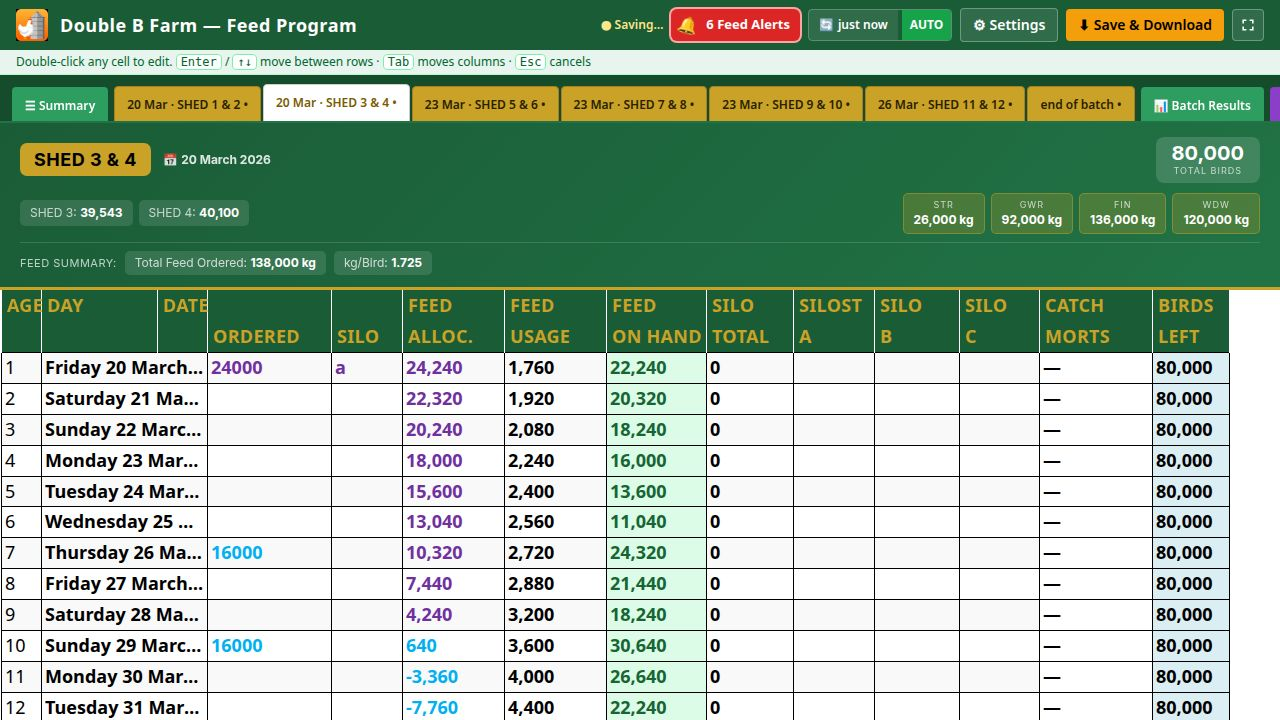
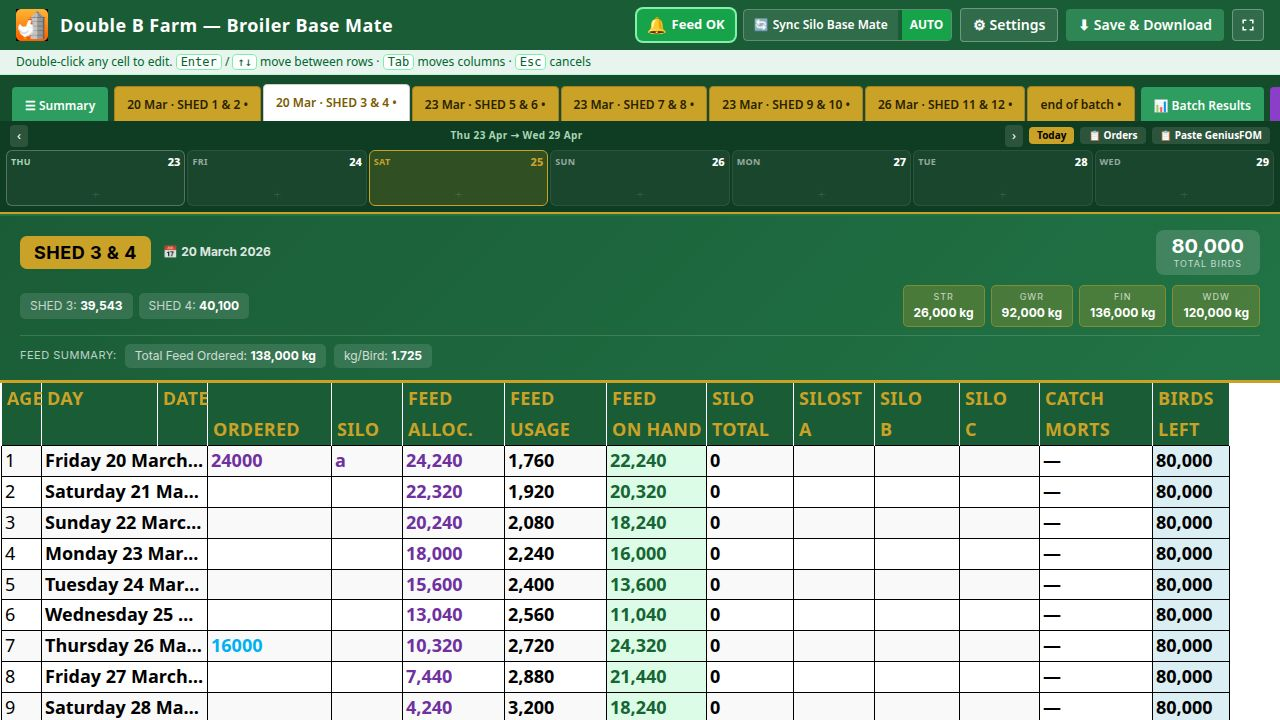
Update application names to reflect rebranding efforts
Renames "Feed Program" to "Broiler Base Mate" and "Farm Buddy" to "Silo Base Mate" across all relevant files, including HTML titles, manifest configurations, component text, and marketing pages.

Replit-Commit-Author: Agent
Replit-Commit-Session-Id: d6876d1c-4795-4b4c-a7d8-f22992d551d5
Replit-Commit-Checkpoint-Type: full_checkpoint
Replit-Commit-Event-Id: 4b5aca08-ce0c-4b1d-9dc8-0aac9070595b
Replit-Commit-Screenshot-Url: https://storage.googleapis.com/screenshot-production-us-central1/9fb187d0-5a71-40d4-a291-96ab5e107c04/d6876d1c-4795-4b4c-a7d8-f22992d551d5/ZOyhsyG
Replit-Helium-Checkpoint-Created: true

diff --git a/artifacts/feed-program/src/App.tsx b/artifacts/feed-program/src/App.tsx
@@ -2358,7 +2358,7 @@ function BatchResultsView({ sheets, edits, farmConfig, shedPlacement, onEobCatch
       .catch(() => setLoadState("error"));
   }, []);
 
-  // Sync batch number from Farm Buddy (and vice versa) via storage events
+  // Sync batch number from Silo Base Mate (and vice versa) via storage events
   useEffect(() => {
     const handler = (e: StorageEvent) => {
       if (e.key === "silo-batch-num") {
@@ -5877,7 +5877,7 @@ export default function App() {
       const data = await res.json();
       setSiloSyncReadings(data.sheds ?? []);
     } catch {
-      setSiloSyncError("Could not reach Farm Buddy. Make sure you're connected.");
+      setSiloSyncError("Could not reach Silo Base Mate. Make sure you're connected.");
     } finally {
       setSiloSyncLoading(false);
     }
@@ -6540,7 +6540,7 @@ export default function App() {
     <div className="flex items-center justify-center h-screen bg-green-50">
       <div className="text-center">
         <div className="w-10 h-10 border-4 border-green-700 border-t-transparent rounded-full animate-spin mx-auto mb-3" />
-        <p className="text-green-800 font-semibold">Loading Feed Program…</p>
+        <p className="text-green-800 font-semibold">Loading Broiler Base Mate…</p>
       </div>
     </div>
   );
@@ -6587,8 +6587,8 @@ export default function App() {
       `}</style>
       {/* Header — paddingTop accounts for iPhone notch */}
       <div className="text-white px-4 py-2 flex items-center gap-3 shadow-md shrink-0" style={{ background: "var(--pm-primary)", paddingTop: "calc(env(safe-area-inset-top, 0px) + 8px)" }}>
-        <img src={`${import.meta.env.BASE_URL}logo.png`} alt="Farm Buddy" style={{ height: 32, width: "auto", objectFit: "contain", flexShrink: 0 }} />
-        <span className="text-lg font-bold tracking-wide">{farmConfig.farmName ?? "Double B Farm"} — {(farmConfig.farmType ?? "broiler") === "breeder" ? "Breeder Program" : "Feed Program"}</span>
+        <img src={`${import.meta.env.BASE_URL}logo.png`} alt="Silo Base Mate" style={{ height: 32, width: "auto", objectFit: "contain", flexShrink: 0 }} />
+        <span className="text-lg font-bold tracking-wide">{farmConfig.farmName ?? "Double B Farm"} — {(farmConfig.farmType ?? "broiler") === "breeder" ? "Breeder Program" : "Broiler Base Mate"}</span>
         <div className="ml-auto flex items-center gap-2">
           {autoSaveFlash
             ? <span style={{ color: "#86efac", fontSize: 12, fontWeight: 600 }}>✓ Auto-saved</span>
@@ -6626,7 +6626,7 @@ export default function App() {
               🔄
               {lastAutoSyncTs
                 ? <span>{(() => { const d = Math.floor((Date.now() - lastAutoSyncTs) / 1000); return d < 60 ? "just now" : d < 3600 ? `${Math.floor(d/60)}m ago` : `${Math.floor(d/3600)}h ago`; })()}</span>
-                : <span>Sync Farm Buddy</span>
+                : <span>Sync Silo Base Mate</span>
               }
             </button>
             <button
@@ -6957,7 +6957,7 @@ export default function App() {
             {/* Header */}
             <div style={{ background: "var(--pm-primary)", color: "#fff", padding: "14px 20px", display: "flex", alignItems: "center", justifyContent: "space-between" }}>
               <div>
-                <div style={{ fontWeight: 800, fontSize: 16 }}>🔄 Sync from Farm Buddy</div>
+                <div style={{ fontWeight: 800, fontSize: 16 }}>🔄 Sync from Silo Base Mate</div>
                 <div style={{ fontSize: 12, opacity: 0.85, marginTop: 2 }}>{new Date().toLocaleDateString(undefined, { weekday: "long", day: "numeric", month: "long", year: "numeric" })}</div>
               </div>
               <button onClick={() => setShowSiloSync(false)} style={{ background: "none", border: "none", color: "#fff", fontSize: 22, cursor: "pointer", lineHeight: 1 }}>×</button>
@@ -7212,7 +7212,7 @@ export default function App() {
               <div>
                 <div style={{ display: "flex", alignItems: "center", gap: 8, marginBottom: 6 }}>
                   <label style={{ display: "block", fontWeight: 700, fontSize: 13, color: "var(--pm-primary)", textTransform: "uppercase", letterSpacing: 0.5 }}>{t("farmName")}</label>
-                  <span style={{ fontSize: 10, fontWeight: 700, background: "var(--pm-primary-soft)", color: "var(--pm-primary)", borderRadius: 20, padding: "1px 8px", border: "1px solid var(--pm-primary)", letterSpacing: 0.3 }}>Synced with Farm Buddy</span>
+                  <span style={{ fontSize: 10, fontWeight: 700, background: "var(--pm-primary-soft)", color: "var(--pm-primary)", borderRadius: 20, padding: "1px 8px", border: "1px solid var(--pm-primary)", letterSpacing: 0.3 }}>Synced with Silo Base Mate</span>
                 </div>
                 <input
                   value={settingsFarmName}
@@ -7226,7 +7226,7 @@ export default function App() {
               <div>
                 <div style={{ display: "flex", alignItems: "center", gap: 8, marginBottom: 6 }}>
                   <label style={{ display: "block", fontWeight: 700, fontSize: 13, color: "var(--pm-primary)", textTransform: "uppercase", letterSpacing: 0.5 }}>Batch Number</label>
-                  <span style={{ fontSize: 10, fontWeight: 700, background: "var(--pm-primary-soft)", color: "var(--pm-primary)", borderRadius: 20, padding: "1px 8px", border: "1px solid var(--pm-primary)", letterSpacing: 0.3 }}>Synced with Farm Buddy</span>
+                  <span style={{ fontSize: 10, fontWeight: 700, background: "var(--pm-primary-soft)", color: "var(--pm-primary)", borderRadius: 20, padding: "1px 8px", border: "1px solid var(--pm-primary)", letterSpacing: 0.3 }}>Synced with Silo Base Mate</span>
                 </div>
                 <input
                   type="number"
@@ -7243,9 +7243,9 @@ export default function App() {
               <div>
                 <div style={{ display: "flex", alignItems: "center", gap: 8, marginBottom: 6 }}>
                   <label style={{ display: "block", fontWeight: 700, fontSize: 13, color: "var(--pm-primary)", textTransform: "uppercase", letterSpacing: 0.5 }}>Default Silo Unit</label>
-                  <span style={{ fontSize: 10, fontWeight: 700, background: "var(--pm-primary-soft)", color: "var(--pm-primary)", borderRadius: 20, padding: "1px 8px", border: "1px solid var(--pm-primary)", letterSpacing: 0.3 }}>Synced with Farm Buddy</span>
+                  <span style={{ fontSize: 10, fontWeight: 700, background: "var(--pm-primary-soft)", color: "var(--pm-primary)", borderRadius: 20, padding: "1px 8px", border: "1px solid var(--pm-primary)", letterSpacing: 0.3 }}>Synced with Silo Base Mate</span>
                 </div>
-                <p style={{ fontSize: 12, color: "#666", marginBottom: 10 }}>Default unit used when recording silo readings in Farm Buddy.</p>
+                <p style={{ fontSize: 12, color: "#666", marginBottom: 10 }}>Default unit used when recording silo readings in Silo Base Mate.</p>
                 <div style={{ display: "flex", gap: 8 }}>
                   {(["kg", "t"] as const).map(u => (
                     <button
@@ -7322,7 +7322,7 @@ export default function App() {
               <div>
                 <div style={{ display: "flex", alignItems: "center", gap: 8, marginBottom: 10 }}>
                   <label style={{ display: "block", fontWeight: 700, fontSize: 13, color: "var(--pm-primary)", textTransform: "uppercase", letterSpacing: 0.5 }}>{t("activeSheds")}</label>
-                  <span style={{ fontSize: 10, fontWeight: 700, background: "var(--pm-primary-soft)", color: "var(--pm-primary)", borderRadius: 20, padding: "1px 8px", border: "1px solid var(--pm-primary)", letterSpacing: 0.3 }}>Synced with Farm Buddy</span>
+                  <span style={{ fontSize: 10, fontWeight: 700, background: "var(--pm-primary-soft)", color: "var(--pm-primary)", borderRadius: 20, padding: "1px 8px", border: "1px solid var(--pm-primary)", letterSpacing: 0.3 }}>Synced with Silo Base Mate</span>
                 </div>
                 <div style={{ display: "flex", flexDirection: "column", gap: 8 }}>
                   {(() => {
@@ -7451,7 +7451,7 @@ export default function App() {
               <div>
                 <div style={{ display: "flex", alignItems: "center", gap: 8, marginBottom: 10 }}>
                   <label style={{ display: "block", fontWeight: 700, fontSize: 13, color: "var(--pm-primary)", textTransform: "uppercase", letterSpacing: 0.5 }}>{t("themeLabel")}</label>
-                  <span style={{ fontSize: 10, fontWeight: 700, background: "var(--pm-primary-soft)", color: "var(--pm-primary)", borderRadius: 20, padding: "1px 8px", border: "1px solid var(--pm-primary)", letterSpacing: 0.3 }}>Synced with Farm Buddy</span>
+                  <span style={{ fontSize: 10, fontWeight: 700, background: "var(--pm-primary-soft)", color: "var(--pm-primary)", borderRadius: 20, padding: "1px 8px", border: "1px solid var(--pm-primary)", letterSpacing: 0.3 }}>Synced with Silo Base Mate</span>
                 </div>
                 <div style={{ display: "flex", gap: 10, flexWrap: "wrap" }}>
                   {APP_THEMES.map(t => {
@@ -7516,7 +7516,7 @@ export default function App() {
               {/* Send to Phone — QR Code */}
               <div>
                 <label style={{ display: "block", fontWeight: 700, fontSize: 13, color: "var(--pm-primary)", marginBottom: 6, textTransform: "uppercase", letterSpacing: 0.5 }}>Send to Phone</label>
-                <p style={{ fontSize: 12, color: "#666", marginBottom: 12 }}>Scan with your phone camera to open Farm Buddy on your phone.</p>
+                <p style={{ fontSize: 12, color: "#666", marginBottom: 12 }}>Scan with your phone camera to open Silo Base Mate on your phone.</p>
                 <div style={{ display: "flex", flexDirection: "column", alignItems: "center", gap: 12 }}>
                   <div style={{ padding: 10, background: "#fff", borderRadius: 12, boxShadow: "0 1px 6px rgba(0,0,0,0.10)" }}>
                     <QRCodeSVG value={`${window.location.origin}/silo-tracker/`} size={170} level="M" includeMargin={false} />

diff --git a/artifacts/silo-mate-plans/src/App.tsx b/artifacts/silo-mate-plans/src/App.tsx
@@ -1302,7 +1302,7 @@ function CheckoutSuccessModal({ onClose }: { onClose: () => void }) {
           rel="noopener noreferrer"
           style={{ display: "block", background: GREEN, color: "#fff", fontWeight: 800, fontSize: 16, padding: "14px 24px", borderRadius: 10, textDecoration: "none", marginBottom: 12 }}
         >
-          Open Feed Program →
+          Open Broiler Base Mate →
         </a>
         <p style={{ fontSize: 13, color: "#888", marginBottom: 20 }}>
           Bookmark that link — it's your app. A Stripe receipt has been sent to your email.
@@ -1592,7 +1592,7 @@ export default function App() {
           {/* Screenshot cards */}
           <div style={{ display: "flex", flexWrap: "wrap", gap: 32, justifyContent: "center", alignItems: "flex-start" }}>
 
-            {/* Feed Program screenshot */}
+            {/* Broiler Base Mate screenshot */}
             <div style={{ flex: "1 1 520px", maxWidth: 640 }}>
               <div style={{ background: "#fff", borderRadius: 16, boxShadow: "0 4px 6px rgba(0,0,0,0.05), 0 20px 60px rgba(0,0,0,0.12)", overflow: "hidden", border: "1px solid #e5e7eb" }}>
                 {/* Browser chrome bar */}
@@ -1604,12 +1604,12 @@ export default function App() {
                 </div>
                 <img
                   src="/plans/screenshot-feed-program.jpg"
-                  alt="Feed Program spreadsheet showing shed tracking data"
+                  alt="Broiler Base Mate spreadsheet showing shed tracking data"
                   style={{ width: "100%", display: "block" }}
                 />
               </div>
               <div style={{ marginTop: 20, paddingLeft: 4 }}>
-                <div style={{ fontWeight: 800, fontSize: 17, color: "#111827", marginBottom: 6 }}>🖥️ Feed Program — Desktop & Tablet</div>
+                <div style={{ fontWeight: 800, fontSize: 17, color: "#111827", marginBottom: 6 }}>🖥️ Broiler Base Mate — Desktop & Tablet</div>
                 <p style={{ color: "#6b7280", fontSize: 14, lineHeight: 1.6, margin: 0 }}>
                   Your complete feed tracking spreadsheet in the browser. All sheds, all days, with automatic feed-on-hand calculations, silo readings, and end-of-batch reporting — no Excel install required.
                 </p>
@@ -1639,7 +1639,7 @@ export default function App() {
               <div style={{ marginTop: 20, paddingLeft: 4 }}>
                 <div style={{ fontWeight: 800, fontSize: 17, color: "#111827", marginBottom: 6 }}>📱 Farm Buddy — iPhone & Android</div>
                 <p style={{ color: "#6b7280", fontSize: 14, lineHeight: 1.6, margin: 0 }}>
-                  Record silo readings and scan delivery dockets right from the shed — no paper, no re-keying. Syncs instantly to the Feed Program.
+                  Record silo readings and scan delivery dockets right from the shed — no paper, no re-keying. Syncs instantly to the Broiler Base Mate.
                 </p>
                 <div style={{ display: "flex", flexWrap: "wrap", gap: "6px 16px", marginTop: 12 }}>
                   {["QR docket scanning", "Instant sync", "Works offline", "Add to home screen"].map(f => (
@@ -2562,7 +2562,7 @@ export default function App() {
                 }}>▶</div>
                 <div>
                   <div style={{ fontWeight: 800, fontSize: 15, color: "#111827" }}>How Farm Buddy works</div>
-                  <div style={{ fontSize: 12, color: "#6b7280" }}>A walkthrough of the Feed Program & Farm Buddy</div>
+                  <div style={{ fontSize: 12, color: "#6b7280" }}>A walkthrough of the Broiler Base Mate & Farm Buddy</div>
                 </div>
               </div>
               <button

diff --git a/artifacts/silo-mate-plans/src/HowItWorksVideo.tsx b/artifacts/silo-mate-plans/src/HowItWorksVideo.tsx
@@ -14,7 +14,7 @@ const STEPS = [
   },
   {
     id: "upload",
-    label: "Feed Program",
+    label: "Broiler Base Mate",
     icon: "🖥️",
     duration: 4500,
   },
@@ -210,7 +210,7 @@ function FeedProgramScene() {
             </div>
             <img
               src={`${BASE}screenshot-feed-program.jpg`}
-              alt="Feed Program"
+              alt="Broiler Base Mate"
               style={{ width: "100%", display: "block" }}
             />
           </div>
@@ -365,7 +365,7 @@ function SyncScene() {
         animate={{ opacity: phase >= 2 ? 1 : 0 }}
         transition={{ duration: 0.4 }}
       >
-        Your silo readings from the shed appear in the Feed Program on the office desktop the moment you hit Save.
+        Your silo readings from the shed appear in the Broiler Base Mate on the office desktop the moment you hit Save.
       </motion.p>
 
       {/* Animated sync diagram */}
@@ -416,7 +416,7 @@ function SyncScene() {
             🖥️
           </div>
           <div style={{ width: 100, height: 8, background: "#9ca3af", borderRadius: 2, margin: "0 auto 8px" }} />
-          <div style={{ fontSize: 11, fontWeight: 700, color: "#374151" }}>Feed Program</div>
+          <div style={{ fontSize: 11, fontWeight: 700, color: "#374151" }}>Broiler Base Mate</div>
           <div style={{ fontSize: 10, color: "#9ca3af" }}>Office / tablet</div>
         </div>
       </motion.div>

diff --git a/artifacts/silo-tracker/vite.config.ts b/artifacts/silo-tracker/vite.config.ts
@@ -56,9 +56,9 @@ export default defineConfig({
         ],
       },
       manifest: {
-        name: "Farm Buddy",
-        short_name: "Farm Buddy",
-        description: "Farm Buddy™ by Appcovi — silo tracking, feed programs, batch results and QR delivery scanning for Australian poultry producers.",
+        name: "Silo Base Mate",
+        short_name: "Silo Base Mate",
+        description: "Silo Base Mate™ by Appcovi — silo tracking, batch results and QR delivery scanning for Australian poultry producers.",
         start_url: "/",
         scope: "/",
         display: "standalone",
@@ -98,7 +98,7 @@ export default defineConfig({
             src: "/opengraph.jpg",
             sizes: "1200x630",
             type: "image/jpeg",
-            label: "FarmBuddy silo tracker",
+            label: "Silo Base Mate — farm management app",
           },
         ],
         related_applications: [

diff --git a/artifacts/feed-program/vite.config.ts b/artifacts/feed-program/vite.config.ts
@@ -47,9 +47,9 @@ export default defineConfig({
         ],
       },
       manifest: {
-        name: "FarmBuddy Feed Program",
-        short_name: "Feed Program",
-        description: "Feed program management for Australian poultry producers.",
+        name: "Broiler Base Mate",
+        short_name: "Broiler Base Mate",
+        description: "Broiler Base Mate — feed program management for Australian poultry producers.",
         start_url: "/feed-program/",
         scope: "/feed-program/",
         display: "standalone",

diff --git a/artifacts/silo-mate-plans/src/VideoPage.tsx b/artifacts/silo-mate-plans/src/VideoPage.tsx
@@ -106,7 +106,7 @@ function useBackgroundMusic(enabled: boolean) {
 const SCENES = [
   { id: "hook",     label: "The problem",   icon: "📋", dur: 3500 },
   { id: "benefits", label: "Benefits",       icon: "✅", dur: 5000 },
-  { id: "feed",     label: "Feed Program",   icon: "🖥️", dur: 4000 },
+  { id: "feed",     label: "Broiler Base Mate",   icon: "🖥️", dur: 4000 },
   { id: "silo",     label: "Farm Buddy",      icon: "📱", dur: 4000 },
   { id: "install",  label: "Get started",    icon: "🚀", dur: 5000 },
   { id: "closer",   label: "The result",     icon: "🏆", dur: 4000 },
@@ -274,7 +274,7 @@ function FeedScene() {
               {["#fc5c65","#fed330","#26de81"].map(c => <span key={c} style={{ width: 10, height: 10, borderRadius: "50%", background: c, display: "inline-block" }} />)}
               <span style={{ flex: 1, background: "#e5e7eb", borderRadius: 5, height: 18, marginLeft: 6 }} />
             </div>
-            <img src={`${BASE}screenshot-feed-program.jpg`} alt="Feed Program" style={{ width: "100%", display: "block" }} />
+            <img src={`${BASE}screenshot-feed-program.jpg`} alt="Broiler Base Mate" style={{ width: "100%", display: "block" }} />
           </div>
         </motion.div>
       </div>
@@ -317,7 +317,7 @@ function SiloScene() {
           </motion.h2>
           <motion.p style={{ fontSize: "clamp(12px,1.6vw,15px)", color: "rgba(255,255,255,0.72)", lineHeight: 1.65, margin: "0 0 16px", maxWidth: 360 }}
             initial={{ opacity: 0 }} animate={{ opacity: p >= 2 ? 1 : 0 }} transition={{ duration: 0.4 }}>
-            Walk the shed, tap in silo readings or scan the delivery docket QR code. Syncs instantly to the Feed Program.
+            Walk the shed, tap in silo readings or scan the delivery docket QR code. Syncs instantly to the Broiler Base Mate.
           </motion.p>
           {["Works offline in the shed", "QR delivery docket scan", "No app store — add to home screen", "Syncs instantly to desktop"].map((f, i) => (
             <motion.div key={f} style={{ display: "flex", alignItems: "center", gap: 8, fontSize: 13, color: GOLD, fontWeight: 600, marginBottom: 6 }}

diff --git a/artifacts/silo-tracker/src/components/layout.tsx b/artifacts/silo-tracker/src/components/layout.tsx
@@ -60,7 +60,7 @@ function InstallBanner() {
         {isIos ? (
           <span>Add to Home Screen — tap <Share className="inline w-4 h-4 mb-0.5" /> then <strong>"Add to Home Screen"</strong></span>
         ) : (
-          <span>Add Farm Buddy to your home screen for quick access</span>
+          <span>Add Silo Base Mate to your home screen for quick access</span>
         )}
       </div>
       {!isIos && (
@@ -114,9 +114,9 @@ export function Layout({ children }: { children: ReactNode }) {
         <div className="max-w-7xl mx-auto">
         <div className="flex items-center justify-between mb-3">
           <div className="flex items-center gap-3">
-            <img src="/logo.png" alt="Farm Buddy" className="h-10 w-auto object-contain shrink-0" />
+            <img src="/logo.png" alt="Silo Base Mate" className="h-10 w-auto object-contain shrink-0" />
             <div>
-              <div className="font-bold text-base text-foreground leading-tight">{config.farmName || "Farm Buddy"}</div>
+              <div className="font-bold text-base text-foreground leading-tight">{config.farmName || "Silo Base Mate"}</div>
               <div className="text-[11px] text-muted-foreground font-medium tracking-wide uppercase">Feed Management</div>
             </div>
           </div>

diff --git a/artifacts/feed-program/index.html b/artifacts/feed-program/index.html
@@ -3,14 +3,14 @@
   <head>
     <meta charset="UTF-8" />
     <meta name="viewport" content="width=device-width, initial-scale=1.0, maximum-scale=1, viewport-fit=cover" />
-    <title>Feed Program</title>
+    <title>Broiler Base Mate</title>
     <link rel="icon" type="image/png" href="%BASE_URL%logo.png" />
     <link rel="apple-touch-icon" href="%BASE_URL%apple-touch-icon.png" />
     <link rel="manifest" href="%BASE_URL%manifest.json" />
     <meta name="mobile-web-app-capable" content="yes" />
     <meta name="apple-mobile-web-app-capable" content="yes" />
     <meta name="apple-mobile-web-app-status-bar-style" content="black-translucent" />
-    <meta name="apple-mobile-web-app-title" content="Feed Program" />
+    <meta name="apple-mobile-web-app-title" content="Broiler Base Mate" />
     <meta name="theme-color" content="#217346" />
     <link rel="preconnect" href="https://fonts.googleapis.com">
     <link rel="preconnect" href="https://fonts.gstatic.com" crossorigin>

diff --git a/artifacts/silo-tracker/index.html b/artifacts/silo-tracker/index.html
@@ -3,14 +3,14 @@
   <head>
     <meta charset="UTF-8" />
     <meta name="viewport" content="width=device-width, initial-scale=1.0, maximum-scale=1, viewport-fit=cover" />
-    <title>Farm Buddy™</title>
+    <title>Silo Base Mate™</title>
     <link rel="icon" type="image/png" href="/logo.png" />
     <link rel="manifest" href="/manifest.json" />
     <link rel="apple-touch-icon" href="/apple-touch-icon.png" />
     <meta name="mobile-web-app-capable" content="yes" />
     <meta name="apple-mobile-web-app-capable" content="yes" />
     <meta name="apple-mobile-web-app-status-bar-style" content="black-translucent" />
-    <meta name="apple-mobile-web-app-title" content="Farm Buddy" />
+    <meta name="apple-mobile-web-app-title" content="Silo Base Mate" />
     <meta name="theme-color" content="#FF3C00" />
     <link rel="preconnect" href="https://fonts.googleapis.com">
     <link rel="preconnect" href="https://fonts.gstatic.com" crossorigin>

diff --git a/artifacts/farm-buddy-home/src/pages/home.tsx b/artifacts/farm-buddy-home/src/pages/home.tsx
@@ -141,7 +141,7 @@ export default function Home() {
                 <div className="w-12 h-12 rounded-xl bg-accent/10 flex items-center justify-center mb-6">
                   <CalendarDays className="h-6 w-6 text-accent" />
                 </div>
-                <h3 className="text-3xl font-display font-bold mb-4">Feed Program</h3>
+                <h3 className="text-3xl font-display font-bold mb-4">Broiler Base Mate</h3>
                 <p className="text-lg text-muted-foreground mb-6">Throw away the clipboard. Log daily weights, mortalities, and feed types as you walk the shed.</p>
                 <ul className="space-y-4">
                   {[

diff --git a/artifacts/feed-program/src/lib/i18n.ts b/artifacts/feed-program/src/lib/i18n.ts
@@ -69,7 +69,7 @@ const T: Record<string, Row> = {
   showExtraColumns:    { en:"Show extra columns",   zh:"显示额外列", vi:"Hiện cột bổ sung", es:"Mostrar columnas extra", pt:"Mostrar colunas extras", id:"Tampilkan kolom ekstra", ko:"추가 열 표시", tl:"Ipakita ang extra columns", hi:"अतिरिक्त कॉलम दिखाएं", th:"แสดงคอลัมน์พิเศษ" },
   themeLabel:          { en:"Theme",                zh:"主题",       vi:"Giao diện",       es:"Tema",             pt:"Tema",               id:"Tema",             ko:"테마",       tl:"Tema",                 hi:"थीम",           th:"ธีม" },
   language:            { en:"Language",             zh:"语言",       vi:"Ngôn ngữ",        es:"Idioma",           pt:"Idioma",             id:"Bahasa",           ko:"언어",       tl:"Wika",                 hi:"भाषा",          th:"ภาษา" },
-  importFeedProgram:   { en:"Import Feed Program",  zh:"导入饲养计划", vi:"Nhập chương trình TĂ", es:"Importar programa", pt:"Importar programa", id:"Impor Program Pakan", ko:"사료 프로그램 가져오기", tl:"I-import ang Feed Program", hi:"फ़ीड प्रोग्राम आयात करें", th:"นำเข้าโปรแกรมอาหาร" },
+  importFeedProgram:   { en:"Import Broiler Base Mate",  zh:"导入饲养计划", vi:"Nhập chương trình TĂ", es:"Importar programa", pt:"Importar programa", id:"Impor Program Pakan", ko:"사료 프로그램 가져오기", tl:"I-import ang Feed Program", hi:"फ़ीड प्रोग्राम आयात करें", th:"นำเข้าโปรแกรมอาหาร" },
   startNewBatch:       { en:"Start New Batch",      zh:"开始新批次", vi:"Bắt đầu lô mới",  es:"Nuevo lote",       pt:"Novo lote",          id:"Mulai Batch Baru", ko:"새 배치 시작", tl:"Bagong Batch",         hi:"नया बैच शुरू करें", th:"เริ่มแบทช์ใหม่" },
   saveClose:           { en:"Save & Close",         zh:"保存并关闭", vi:"Lưu & Đóng",      es:"Guardar y cerrar", pt:"Salvar e fechar",    id:"Simpan & Tutup",   ko:"저장 & 닫기", tl:"I-save at Isara",      hi:"सेव और बंद करें", th:"บันทึกและปิด" },
   cancel:              { en:"Cancel",               zh:"取消",       vi:"Hủy",             es:"Cancelar",         pt:"Cancelar",           id:"Batal",            ko:"취소",       tl:"Kanselahin",           hi:"रद्द करें",     th:"ยกเลิก" },

diff --git a/artifacts/silo-tracker/src/pages/home.tsx b/artifacts/silo-tracker/src/pages/home.tsx
@@ -152,7 +152,7 @@ export default function Home() {
       {lastSync && (
         <div className="flex items-center gap-2 mb-3 px-3 py-2 rounded-xl bg-primary/10 border border-primary/20 text-primary text-xs font-semibold">
           <span className="text-base">✅</span>
-          <span>Synced to Feed Program <span className="opacity-70 font-medium">{formatRelative(lastSync)}</span></span>
+          <span>Synced to Broiler Base Mate <span className="opacity-70 font-medium">{formatRelative(lastSync)}</span></span>
         </div>
       )}
       <div className="grid grid-cols-1 sm:grid-cols-2 lg:grid-cols-3 gap-3">